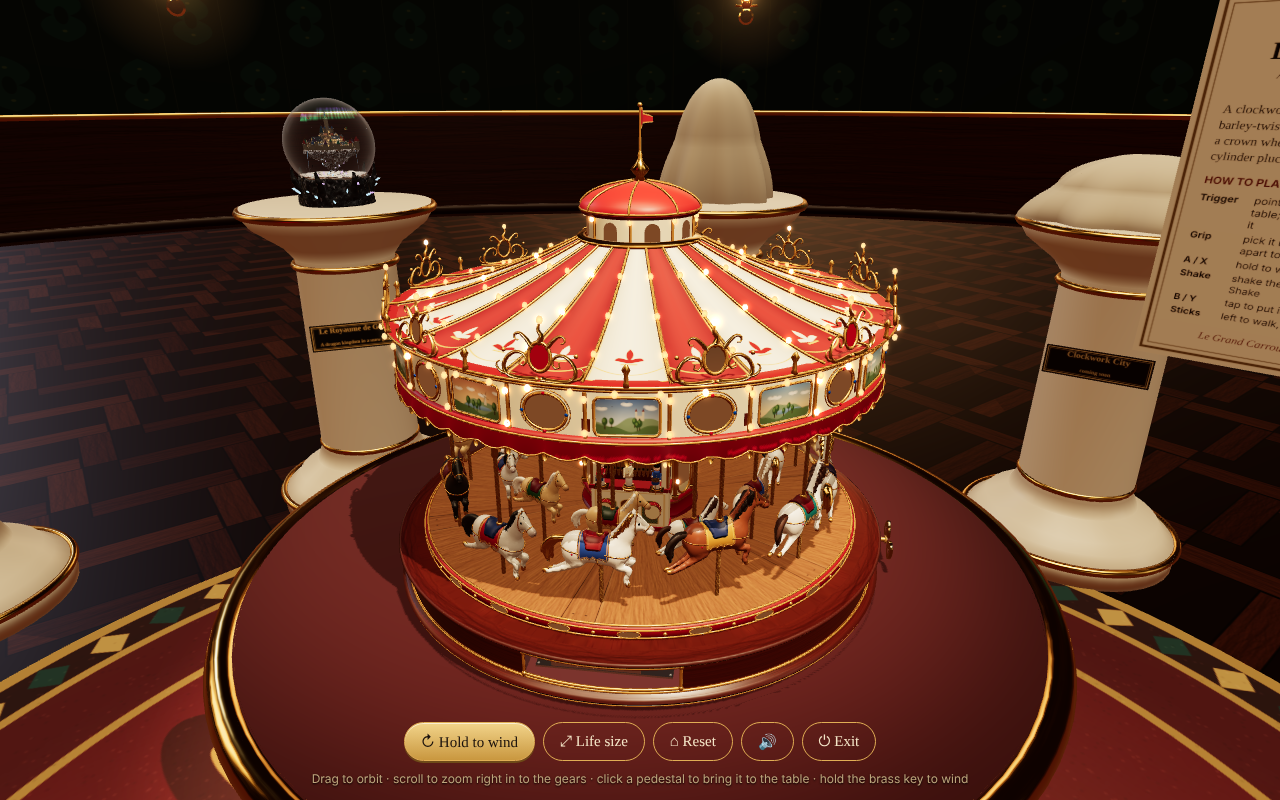
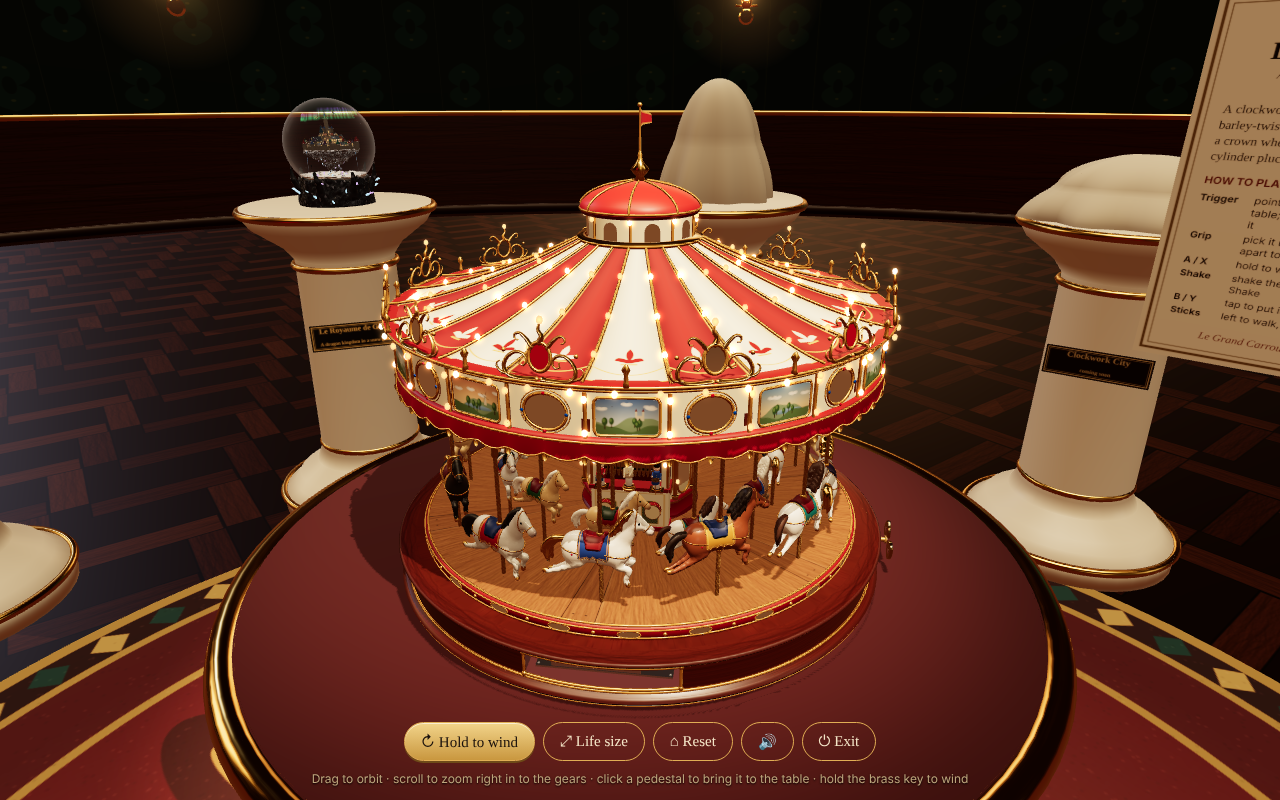
Test the horses' manes as the carousel draws them
The mane check looked at the exact shape, which can pass while the meshed
horse still shows its neck through a thin ridge of hair. Now the horse is
meshed at each level of detail the carousel uses (the cell sizes are shared
from dimensions.js) and rays dropped straight down onto the crest must hit
hair from the withers to the poll. On the old two-row mane this fails at
every level and prints a map of the bare middle; the current mane passes.

Also the screenshots from the last full test run.

Claude-Session: https://claude.ai/code/session_01BdGTawuK8jL58iLw9aeXyg

diff --git a/tools/test/maneCoverage.js b/tools/test/maneCoverage.js
@@ -1,0 +1,55 @@
+/**
+ * Checks the carousel horse's mane the way it is actually drawn: meshes the
+ * body and mane layers with the same mesher and grid spacing as the app, then
+ * drops rays straight down onto the top of the neck. Wherever a ray reaches
+ * the neck before the hair, the neck shows through the mane (the "shaved
+ * strip" a too-thin ridge of hair leaves once it is meshed coarsely).
+ *
+ *   const r = maneCoverage(layers, 0.034);   // { bare, n, map }
+ *
+ * x runs along the neck from the withers to the poll (raw horse units), z
+ * across it; `map` has one text row per z ('#' hair, '.' bare neck).
+ */
+import { surfaceNets } from '../../library/core/surfaceNets.js';
+
+const OXH = -0.06; // horseModel's layers are shifted by this along x
+
+/** distance down to the nearest triangle under (x, top, z), or Infinity */
+function drop(m, x, top, z) {
+  const P = m.positions, I = m.index;
+  let best = Infinity;
+  for (let t = 0; t < I.length; t += 3) {
+    const a = I[t] * 3, b = I[t + 1] * 3, c = I[t + 2] * 3;
+    const ax = P[a], az = P[a + 2], bx = P[b], bz = P[b + 2], cx = P[c], cz = P[c + 2];
+    const d = (bz - cz) * (ax - cx) + (cx - bx) * (az - cz);
+    if (Math.abs(d) < 1e-12) continue;
+    const l1 = ((bz - cz) * (x - cx) + (cx - bx) * (z - cz)) / d;
+    const l2 = ((cz - az) * (x - cx) + (ax - cx) * (z - cz)) / d;
+    const l3 = 1 - l1 - l2;
+    if (l1 < 0 || l2 < 0 || l3 < 0) continue;
+    const y = l1 * P[a + 1] + l2 * P[b + 1] + l3 * P[c + 1];
+    if (y < top) best = Math.min(best, top - y);
+  }
+  return best;
+}
+
+export function maneCoverage(layers, cell, { x0 = 0.32, x1 = 0.64, dx = 0.02, half = 0.06, dz = 0.01 } = {}) {
+  const body = surfaceNets(layers.body.sdf, layers.body.bounds, cell);
+  const mane = surfaceNets(layers.mane.sdf, layers.mane.bounds, cell);
+  let bare = 0, n = 0;
+  const map = [];
+  for (let z = -half; z <= half + 1e-6; z += dz) {
+    let row = '';
+    for (let x = x0; x <= x1 + 1e-6; x += dx) {
+      const tb = drop(body, x + OXH, 2, z), tm = drop(mane, x + OXH, 2, z);
+      n++;
+      if (tm < tb) row += '#';
+      else {
+        bare++;
+        row += '.';
+      }
+    }
+    map.push(row);
+  }
+  return { bare, n, map };
+}

diff --git a/library/carousel/horses.js b/library/carousel/horses.js
@@ -3,7 +3,7 @@ import { mergeGeometries } from 'three/addons/utils/BufferGeometryUtils.js';
 import { meshLayer, modelDetails } from '../core/sdfClient.js';
 import { normalizeGeometry, tube, twistedPole, lathe } from '../core/geometry.js';
 import { paintMaskMaterial } from '../core/materials.js';
-import { D } from './dimensions.js';
+import { D, HORSE_CELLS } from './dimensions.js';
 
 const MODEL = new URL('./horseModel.js', import.meta.url).href;
 
@@ -32,7 +32,7 @@ const LIVERY = [
  */
 export async function buildHorses(ctx, kit, { lod }) {
   const hero = lod === 'hero';
-  const cells = hero ? { hi: 0.034, lo: 0.062 } : { hi: null, lo: 0.08 };
+  const cells = hero ? { hi: HORSE_CELLS.hi, lo: HORSE_CELLS.lo } : { hi: null, lo: HORSE_CELLS.shelf };
   const levels = hero ? ['hi', 'lo'] : ['lo'];
 
   const det = await modelDetails(MODEL);

diff --git a/library/carousel/dimensions.js b/library/carousel/dimensions.js
@@ -53,3 +53,10 @@ export const D = {
 D.ratio = D.pinionX / D.pinionR;
 /** pole top sits this far below the shaft when the crank is level */
 D.poleTopToHorse = D.shaftY - D.rod - D.horseMid;
+
+/**
+ * grid spacing (horse units) the horses are meshed at: the hero carousel's
+ * near and far levels of detail, and the shelf miniature. The test suite
+ * checks the mane at these same resolutions.
+ */
+export const HORSE_CELLS = { hi: 0.034, lo: 0.062, shelf: 0.08 };

diff --git a/README.md b/README.md
@@ -186,6 +186,7 @@ The test boots the gallery and plays through the real interactions:
 - entering VR off-centre and landing at the table
 - the Exit button and hold-B exit
 - for the snow globe: its town and perches, the dragons flying inside the glass, shaking it into a blizzard, Up close, and five simulated minutes of dragon flight that must never enter a building or leave the glass
+- that each carousel horse's mane covers the top of its neck from withers to poll, as the carousel actually draws it: the horse is meshed at each level of detail and rays dropped straight down onto the crest must hit hair, never the neck (`tools/test/maneCoverage.js`)
 - that the town's small things are attached: every lantern and string light hangs from a lamp, a post or a wire, the guards walk on top of the wall (never on air or through a tower), and every flag flies from its pole (`tools/test/floaters.js`)
 - the whole visit again on **Meta's own WebXR emulator** ([IWER](https://github.com/meta-quest/immersive-web-emulation-runtime), the emulator behind Meta's Immersive Web SDK) as a Quest 3 with Touch Plus controllers, driven only through the controls: pointing at a pedestal and pulling the trigger, the Up close button, walking round the walkway with the stick, tapping B, squeezing the grip to pick the globe up and shaking it, and the Exit button
 
